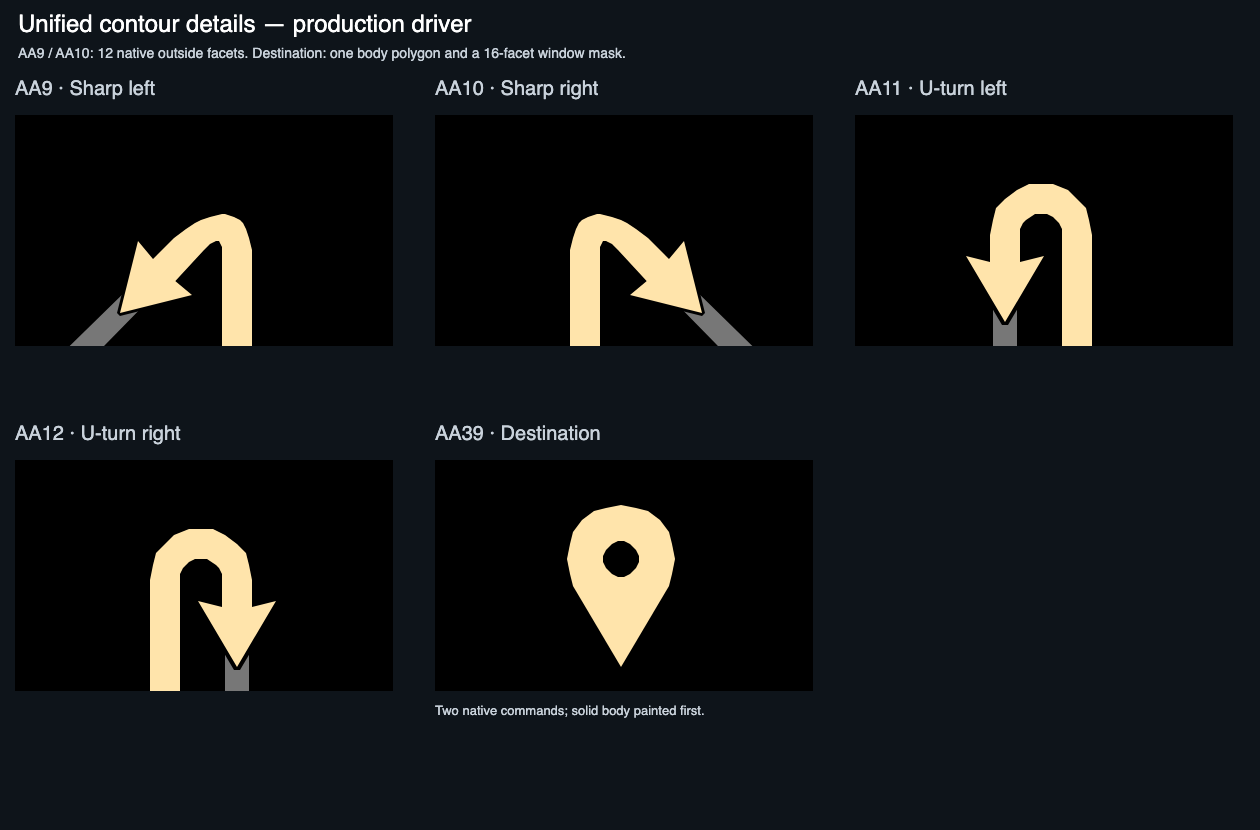
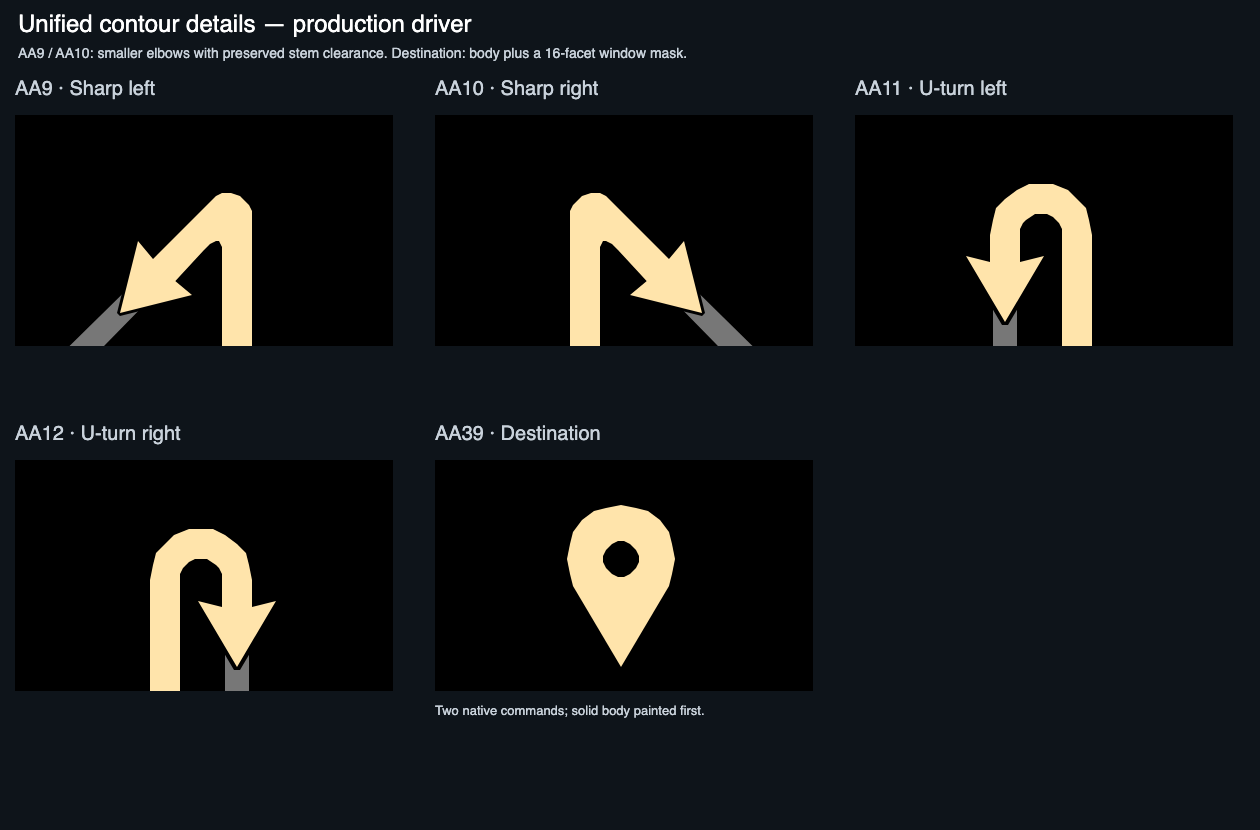
Preserve sharp-turn stem width and match lane arrow contours

Changed region(s): [[0.0619, 0.0602, 0.5571, 0.0904], [0.4333, 0.2108, 0.4952, 0.3012], [0.1548, 0.2108, 0.2167, 0.3012]]

diff --git a/milestone-7/src/cluster/hud_unified_data.hpp b/milestone-7/src/cluster/hud_unified_data.hpp
@@ -30,13 +30,13 @@ static const Point kGlyph7HeadEdge[] = { {55,49}, {55,50}, {53,50}, {32,37}, {32
 static const Point kGlyph7Near0Edge[] = { {70,90}, {68,88}, {68,44}, {66,42}, {-15,42}, {-17,40}, {-17,32}, {-15,30}, {75,30}, {78,33}, {79,33}, {80,35}, {80,88}, {78,90} };
 static const Point kGlyph7Near0Fill[] = { {70,88}, {70,44}, {69,42}, {67,40}, {-15,40}, {-15,32}, {75,32}, {77,34}, {78,36}, {78,88} };
 static const Road kGlyph7NearRoads[] = { {{kGlyph7Near0Edge,14,14},{kGlyph7Near0Fill,10,10}} };
-static const Point kGlyph9Body[] = { {69,44}, {68,42}, {67,42}, {65,43}, {63,45}, {51,58}, {43,51}, {53,41}, {57,38}, {60,36}, {62,35}, {65,34}, {69,33}, {70,33}, {73,34}, {75,35}, {76,36}, {77,38}, {78,41}, {79,45}, {79,70}, {69,70} };
+static const Point kGlyph9Body[] = { {69,44}, {68,42}, {67,42}, {65,43}, {63,45}, {51,58}, {43,51}, {67,27}, {69,26}, {72,26}, {75,27}, {78,30}, {79,32}, {79,70}, {69,70} };
 static const Point kGlyph9Head[] = { {59,60}, {35,66}, {41,42}, {46,48}, {53,55} };
-static const Point kGlyph9BodyEdge[] = { {68,44}, {67,43}, {64,46}, {52,59}, {50,59}, {42,52}, {42,50}, {52,40}, {56,37}, {59,35}, {60,35}, {62,34}, {65,33}, {69,32}, {70,32}, {73,33}, {75,34}, {76,34}, {77,35}, {77,36}, {78,38}, {79,41}, {80,45}, {80,71}, {68,71} };
+static const Point kGlyph9BodyEdge[] = { {68,44}, {67,43}, {64,46}, {52,59}, {50,59}, {42,52}, {42,50}, {66,26}, {67,26}, {69,25}, {72,25}, {75,26}, {76,26}, {79,29}, {79,30}, {80,32}, {80,71}, {68,71} };
 static const Point kGlyph9HeadEdge[] = { {60,59}, {60,61}, {59,61}, {35,67}, {34,66}, {40,42}, {40,41}, {42,41}, {47,47}, {54,54} };
-static const Point kGlyph9Near0Edge[] = { {70,90}, {68,88}, {68,43}, {67,43}, {63,45}, {15,94}, {15,95}, {13,95}, {13,94}, {7,88}, {6,88}, {6,86}, {7,86}, {53,41}, {53,40}, {57,37}, {60,35}, {61,35}, {61,34}, {64,33}, {65,33}, {69,32}, {71,32}, {74,33}, {74,34}, {77,37}, {78,37}, {79,40}, {79,41}, {80,45}, {80,88}, {78,90} };
-static const Point kGlyph9Near0Fill[] = { {70,88}, {70,44}, {69,41}, {67,41}, {64,42}, {62,44}, {14,93}, {8,87}, {54,42}, {58,39}, {61,37}, {62,36}, {65,35}, {69,34}, {70,34}, {73,35}, {76,38}, {77,41}, {78,45}, {78,88} };
-static const Road kGlyph9NearRoads[] = { {{kGlyph9Near0Edge,32,32},{kGlyph9Near0Fill,20,20}} };
+static const Point kGlyph9Near0Edge[] = { {70,90}, {68,88}, {68,43}, {67,43}, {63,45}, {15,94}, {15,95}, {13,95}, {13,94}, {7,88}, {6,88}, {6,86}, {7,86}, {67,27}, {69,25}, {73,25}, {75,26}, {75,27}, {80,32}, {80,88}, {78,90} };
+static const Point kGlyph9Near0Fill[] = { {70,88}, {70,44}, {69,41}, {67,41}, {64,42}, {62,44}, {14,93}, {8,87}, {68,28}, {69,27}, {72,27}, {74,28}, {78,32}, {78,88} };
+static const Road kGlyph9NearRoads[] = { {{kGlyph9Near0Edge,21,21},{kGlyph9Near0Fill,14,14}} };
 static const Point kGlyph11Body[] = { {69,38}, {68,36}, {66,34}, {64,33}, {60,33}, {57,35}, {56,36}, {55,38}, {55,52}, {45,52}, {45,40}, {46,35}, {47,31}, {50,28}, {54,25}, {58,23}, {66,23}, {71,25}, {77,31}, {78,35}, {79,40}, {79,70}, {69,70} };
 static const Point kGlyph11Head[] = { {63,47}, {50,69}, {37,47}, {45,49}, {55,49} };
 static const Point kGlyph11BodyEdge[] = { {68,38}, {64,34}, {60,34}, {56,38}, {56,53}, {44,53}, {44,40}, {45,35}, {46,31}, {46,30}, {49,27}, {53,24}, {54,24}, {58,22}, {66,22}, {71,24}, {72,24}, {78,30}, {78,31}, {79,35}, {80,40}, {80,71}, {68,71} };
@@ -88,7 +88,7 @@ static const Glyph kGlyphs[] = {
     {{kGlyph2Body,4,2},{kGlyph2Head,5,5},{kGlyph2BodyEdge,4,2},{kGlyph2HeadEdge,10,10},{0,0,0},0,0,kGlyph2NearRoads,1,70,86,28},
     {{kGlyph5Body,10,8},{kGlyph5Head,5,5},{kGlyph5BodyEdge,13,11},{kGlyph5HeadEdge,10,10},{0,0,0},0,0,kGlyph5NearRoads,1,70,86,51},
     {{kGlyph7Body,10,8},{kGlyph7Head,5,5},{kGlyph7BodyEdge,11,9},{kGlyph7HeadEdge,10,10},{0,0,0},0,0,kGlyph7NearRoads,1,70,86,45},
-    {{kGlyph9Body,22,20},{kGlyph9Head,5,5},{kGlyph9BodyEdge,25,23},{kGlyph9HeadEdge,10,10},{0,0,0},0,0,kGlyph9NearRoads,1,70,86,45},
+    {{kGlyph9Body,15,13},{kGlyph9Head,5,5},{kGlyph9BodyEdge,18,16},{kGlyph9HeadEdge,10,10},{0,0,0},0,0,kGlyph9NearRoads,1,70,86,44},
     {{kGlyph11Body,23,21},{kGlyph11Head,5,5},{kGlyph11BodyEdge,23,21},{kGlyph11HeadEdge,10,10},{0,0,0},0,0,kGlyph11NearRoads,1,70,86,40},
     {{kGlyph13Body,13,11},{kGlyph13Head,5,5},{kGlyph13BodyEdge,16,14},{kGlyph13HeadEdge,10,10},{0,0,0},0,0,kGlyph13NearRoads,1,70,86,52},
     {{kGlyph21Body,12,10},{kGlyph21Head,4,4},{kGlyph21BodyEdge,15,13},{kGlyph21HeadEdge,10,10},{0,0,0},kGlyph21FarRoads,1,kGlyph21NearRoads,2,73,89,51},
@@ -100,12 +100,12 @@ static const Point kLane1Body[] = { {23,15}, {23,5}, {25,5}, {25,15} };
 static const Point kLane1Head[] = { {21,6}, {24,1}, {27,6} };
 static const Point kLane2Body[] = { {26,15}, {26,10}, {23,7}, {25,5}, {28,8}, {28,15} };
 static const Point kLane2Head[] = { {22,9}, {21,3}, {27,5}, {25,6} };
-static const Point kLane4Body[] = { {26,15}, {26,9}, {25,8}, {21,8}, {21,6}, {28,6}, {28,15} };
+static const Point kLane4Body[] = { {26,15}, {26,9}, {25,8}, {21,8}, {21,6}, {27,6}, {28,7}, {28,15} };
 static const Point kLane4Head[] = { {22,10}, {17,7}, {22,4} };
-static const Point kLane6Body[] = { {26,15}, {26,9}, {25,8}, {21,12}, {19,10}, {27,2}, {28,2}, {28,15} };
-static const Point kLane6Head[] = { {23,13}, {18,14}, {19,8}, {20,10}, {22,11} };
+static const Point kLane6Body[] = { {26,15}, {26,8}, {25,8}, {20,13}, {19,11}, {25,5}, {26,5}, {28,7}, {28,15} };
+static const Point kLane6Head[] = { {24,13}, {18,14}, {19,8}, {20,10}, {22,12} };
 static const Point kLane8Body[] = { {26,15}, {26,7}, {25,6}, {24,6}, {22,7}, {22,11}, {20,11}, {20,6}, {22,4}, {26,4}, {28,6}, {28,15} };
 static const Point kLane8Head[] = { {24,9}, {21,15}, {18,9}, {20,10}, {22,10} };
-static const Lane kLanes[] = { {{kLane1Body,4,4},{kLane1Head,3,3}}, {{kLane2Body,6,6},{kLane2Head,4,4}}, {{kLane4Body,7,7},{kLane4Head,3,3}}, {{kLane6Body,8,8},{kLane6Head,5,5}}, {{kLane8Body,12,12},{kLane8Head,5,5}} };
+static const Lane kLanes[] = { {{kLane1Body,4,4},{kLane1Head,3,3}}, {{kLane2Body,6,6},{kLane2Head,4,4}}, {{kLane4Body,8,8},{kLane4Head,3,3}}, {{kLane6Body,9,9},{kLane6Head,5,5}}, {{kLane8Body,12,12},{kLane8Head,5,5}} };
 }}} // namespace nbt::hudterm::unified
 #endif

diff --git a/milestone-7/tests/test_hud_unified.py b/milestone-7/tests/test_hud_unified.py
@@ -4,6 +4,7 @@
 """Golden accepted contours read back from production MOST commands, not the design generator."""
 import hashlib
 import json
+import math
 from pathlib import Path
 import subprocess
 import sys
@@ -52,6 +53,27 @@ def simple(p):
             assert not touches(a,b,p[j],p[(j+1)%len(p)]),p
 
 
+def chain(p, start, end):
+    first=p.index(start); p=p[first:]+p[:first]
+    return p[:p.index(end)+1]
+
+
+def point_segment_distance(p,a,b):
+    dx,dy=b[0]-a[0],b[1]-a[1]
+    t=max(0,min(1,((p[0]-a[0])*dx+(p[1]-a[1])*dy)/(dx*dx+dy*dy)))
+    return math.hypot(p[0]-a[0]-t*dx,p[1]-a[1]-t*dy)
+
+
+def sharp_elbow_width(body):
+    inside=chain(body,(69,44),(63,45))
+    tail=next(p for p in body if p[0]==79 and p[1]>=55)
+    outside=chain(body,(43,51),tail)
+    # For disjoint line segments the shortest distance has an endpoint on at least one segment.
+    return min(min(point_segment_distance(a,c,d),point_segment_distance(b,c,d),
+                   point_segment_distance(c,a,b),point_segment_distance(d,a,b))
+               for a,b in zip(inside,inside[1:]) for c,d in zip(outside,outside[1:]))
+
+
 class UnifiedTest(unittest.TestCase):
     def test_approved_native_contours_and_all_stages(self):
         baseline = {}
@@ -78,10 +100,14 @@ class UnifiedTest(unittest.TestCase):
                         turns=[cross(hole[i-1],hole[i],hole[(i+1)%16])for i in range(16)]
                         self.assertTrue(all(x>0 for x in turns) or all(x<0 for x in turns))
                     if t==9:
-                        body=ink[0]; a=body.index((53,41)); b=body.index((79,45))
-                        arc=body[a:b+1] if a<b else body[a:]+body[:b+1]
-                        self.assertEqual(len(arc)-1,12)
-                        self.assertTrue(all(cross(arc[i-1],arc[i],arc[i+1])>0 for i in range(1,len(arc)-1)))
+                        body=ink[0]
+                        self.assertEqual(chain(body,(69,44),(63,45)),
+                                         [(69,44),(68,42),(67,42),(65,43),(63,45)])
+                        self.assertGreaterEqual(sharp_elbow_width(body),9.8)
+                        tail=next(p for p in body if p[0]==79 and p[1]>=55)
+                        outer=chain(body,(43,51),tail)
+                        self.assertTrue(all(cross(outer[i-1],outer[i],outer[i+1])>0
+                                            for i in range(1,len(outer)-1)))
 
     def test_approved_lane_shapes_both_colours(self):
         baseline={}
@@ -99,6 +125,33 @@ class UnifiedTest(unittest.TestCase):
                 wire=[ET.tostring(p)for p in polys]
                 if mode:self.assertEqual(wire,baseline[shape,selected])
                 else:baseline[shape,selected]=wire
+
+    def test_lane_width_symmetry_and_outside_cuts(self):
+        for mode in range(2):
+            cells=render(0,mode,'lanes')
+            for selected in range(2):
+                drawings={int(c.get('data-shape')):[points(p) for p in c.findall('.//s:polygon',NS)]
+                          for c in cells if int(c.get('data-highlight'))==selected}
+                for shape in (4,5,6,7):
+                    body,head=drawings[shape]
+                    foot=[x for x,y in body if y==15]
+                    self.assertEqual(len(foot),2)
+                    self.assertEqual(abs(foot[0]-foot[1]),2)
+                for left,right in ((4,5),(6,7)):
+                    for a,b in zip(drawings[left],drawings[right]):
+                        self.assertEqual({(182-x,y)for x,y in a},set(b))
+                for shape in (4,5):
+                    head=drawings[shape][1]
+                    self.assertEqual({(x,14-y)for x,y in head},set(head))
+                head=drawings[6][1]
+                self.assertEqual({(99-y,99-x)for x,y in head},set(head))
+                body=drawings[6][0]
+                # Two flat diagonal edges: x+y=100 and97 (3/sqrt(2), about2.12 native px).
+                self.assertTrue({(92,8),(87,13),(86,11),(92,5)}<=set(body))
+                self.assertIn((95,7),body)
+                self.assertNotIn((95,6),body)
+                self.assertIn((95,7),drawings[4][0])
+                self.assertNotIn((95,6),drawings[4][0])
 
 
 if __name__=='__main__': unittest.main()

diff --git a/milestone-7/docs/hud-unified.md b/milestone-7/docs/hud-unified.md
@@ -2,11 +2,11 @@
 
 The automatically measured **126x77** F30 main-picture profile uses one set of native integer contours for ordinary maneuvers, in both `NBT_HUD_GLYPHS` modes. Far and near views share their arrowheads and bends. Only the incoming tail changes with the four near-route stages; roads supply the near-view context. Other measured sizes, the F20 fallback and explicit canvas/glyph pins keep their existing renderers.
 
-The set contains 18 representative forms: straight, slight/normal/sharp turns, U-turns, on/off ramps, forks, merges and destination. Android Auto aliases retain their family mapping and unknown types retain the straight fallback. The main shaft is 10 native pixels wide; the common source head is 20 pixels long and 26 pixels across, with an 80-degree wing return. Diagonal rounding introduces the expected one-pixel variation. Normal and sharp turns have raised bends and extended outgoing stems. AA9/AA10 have a strictly convex outside elbow with **12 real native facets**; the head, inside curve and incoming cap are retained.
+The set contains 18 representative forms: straight, slight/normal/sharp turns, U-turns, on/off ramps, forks, merges and destination. Android Auto aliases retain their family mapping and unknown types retain the straight fallback. The main shaft is 10 native pixels wide; the common source head is 20 pixels long and 26 pixels across, with an 80-degree wing return. Diagonal rounding introduces the expected one-pixel variation. Normal and sharp turns have raised bends and extended outgoing stems. AA9/AA10 have smaller convex outside elbows; the head, inside curve and incoming cap are retained. A minimum-gap regression checks the complete opposing edge segments, keeping the native stem clearance at least 9.8px instead of allowing the elbow to pinch.
 
 The destination is a solid pin body with an independently painted, strictly convex **16-facet** window. MOST's documented polygon command has a single point array, without a hole/contour delimiter. The driver therefore sends two primitives: the body first and the dark window mask last. There are no body triangulation seams or invented compound-contour wire formats. Whether colour 7 masks the white body on the physical cluster remains a car check.
 
-The optional, separately measured **184x17** lane layer uses nine smaller forms in the same style. Unselected directions are painted first, selected directions last. Up to 24 arrows use at most 53 commands, below the terminal's 64-command batch limit. Lane guidance remains disabled by default. Other profiles, custom lane rectangles and an explicit `NBT_HUD_LANES_BOX` pin retain the legacy lane drawing.
+The optional, separately measured **184x17** lane layer uses nine smaller forms in the same style. Lane4–Lane7 share a two-pixel incoming foot. Normal-turn horizontal stems are also 2px; the sharp-turn diagonal edges are 3/sqrt(2), about 2.12px apart after integer rounding. Their heads are symmetric about their own axes, right-hand forms are exact mirrors, and the outside shoulders are clipped without changing the foot width. Unselected directions are painted first, selected directions last. Up to 24 arrows use at most 53 commands, below the terminal's 64-command batch limit. Lane guidance remains disabled by default. Other profiles, custom lane rectangles and an explicit `NBT_HUD_LANES_BOX` pin retain the legacy lane drawing.
 
 ## Source and regeneration
 
@@ -24,6 +24,6 @@ make -C milestone-7/tests hud-preview hud-matrix
 
 The preview decodes the production driver's submitted MOST commands and follows buffer visibility. It writes 32 SVG sheets: both glyph modes, far/all four near stages, CCW/CW ring matrices and selected/unselected lane shapes. They contain 2,906 cells. [Review images](hud-preview/README.md) enlarge these exact polygons without changing their coordinates.
 
-`make check` includes frozen accepted-contour hashes from `tests/fixtures/hud-unified-approved.json`, read back through the actual driver. It also checks generator determinism, inclusive self-contact, exact mirrors, the 12/16-facet curves, fixed heads and bends, stage tails including their borders, mode/overlay equivalence, lane bounds/fallbacks and real terminal batch admission. Compatibility regressions cover the F20 fallback, other measured sizes and manual pins. Ring/digit tests remain separate and unchanged by the unified ordinary artwork.
+`make check` includes frozen accepted-contour hashes from `tests/fixtures/hud-unified-approved.json`, read back through the actual driver. It also checks generator determinism, inclusive self-contact, exact mirrors, sharp-turn clearance, matching lane widths/heads/corner cuts and the 16-facet pin window, fixed heads and bends, stage tails including their borders, mode/overlay equivalence, lane bounds/fallbacks and real terminal batch admission. Compatibility regressions cover the F20 fallback, other measured sizes and manual pins. Ring/digit tests remain separate and unchanged by the unified ordinary artwork.
 
 The screenshots show polygon previews, not the cluster's rasterizer, palette, text layout or MOST timing. Hardware readability is still to be checked. No firmware deployment is part of generating this catalog.

diff --git a/milestone-7/docs/hud-preview/README.md b/milestone-7/docs/hud-preview/README.md
@@ -3,7 +3,8 @@
 These images contain the current production driver's serialized polygon coordinates and colour roles, enlarged for review. Both selectable glyph modes share the [unified artwork](../hud-unified.md) on the automatically measured 126x77 F30 profile.
 
 - [Complete ordinary-arrow catalog](unified-all-arrows.png): all 18 representative forms, far and near stage 4, plus all nine lane shapes. The lane SVG sheets also show both selected and unselected colours.
-- [Contour details](unified-contour-details.png): sharp turns with 12 native outside facets, U-turns and the destination's 16-facet window.
+- [Contour details](unified-contour-details.png): sharp turns with smaller outside elbows and preserved stem clearance, U-turns and the destination's 16-facet window.
+- [Lane width and corner details](lane-widths-and-corners.png): Lane4–Lane7 at the same enlarged scale and at native size, with matching two-pixel feet, symmetric heads and clipped outside corners.
 - [CCW roundabouts](roundabouts-ccw.png) and [CW roundabouts](roundabouts-cw.png): independently absent/known angles and absent/1..8 exit numbers. Their geometry and digit data are retained.
 
 From the repository root on a configured Linux host:
